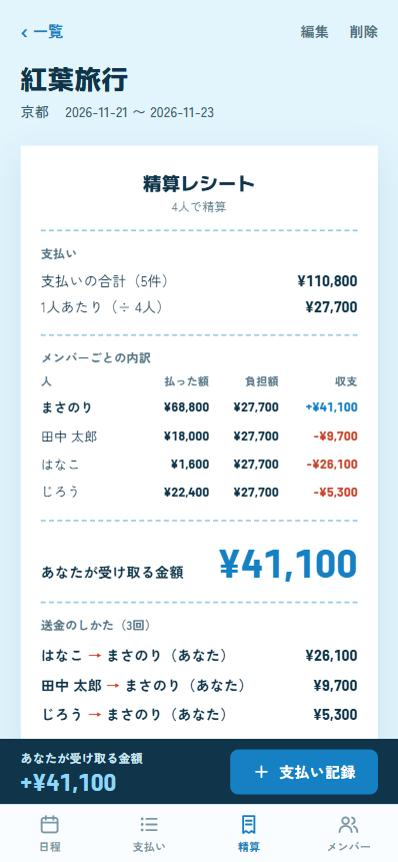
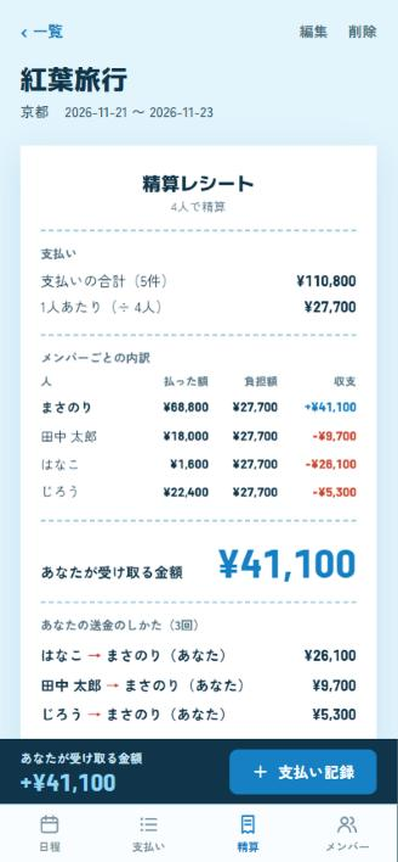
rename the schedule tab to 日程 and update the settlement screenshot

diff --git a/src/app/projects/[id]/PaymentsClient.js b/src/app/projects/[id]/PaymentsClient.js
@@ -142,7 +142,7 @@ function TodoDot() {
 // 端末の機能（共有メニューが使えるか）は変わらないので、変化を知らせる仕組みはいらない
 const noopSubscribe = () => () => {};
 
-// スマホで下に並べるタブ（PCは「日程調整・支払い・精算」の3つに分け、メンバーは支払いの横に並べる）
+// スマホで下に並べるタブ（PCは「日程・支払い・精算」の3つに分け、メンバーは支払いの横に並べる）
 const TABS = [
   { id: "schedule", label: "日程", Icon: CalendarIcon },
   { id: "payments", label: "支払い", Icon: ListIcon },
@@ -150,7 +150,7 @@ const TABS = [
   { id: "members", label: "メンバー", Icon: UsersIcon },
 ];
 const DESKTOP_TABS = [
-  { id: "schedule", label: "日程調整", Icon: CalendarIcon },
+  { id: "schedule", label: "日程", Icon: CalendarIcon },
   { id: "payments", label: "支払い", Icon: ListIcon },
   { id: "settle", label: "精算", Icon: ReceiptIcon },
 ];
@@ -413,7 +413,7 @@ export default function PaymentsClient({ project, currentParticipantId, isOwner 
           })}
         </div>
 
-        <section id="panel-schedule" role="tabpanel" aria-label="日程調整" className={tab === "schedule" ? "" : "hidden"}>
+        <section id="panel-schedule" role="tabpanel" aria-label="日程" className={tab === "schedule" ? "" : "hidden"}>
           <ScheduleSection
             project={project}
             currentParticipantId={currentParticipantId}
